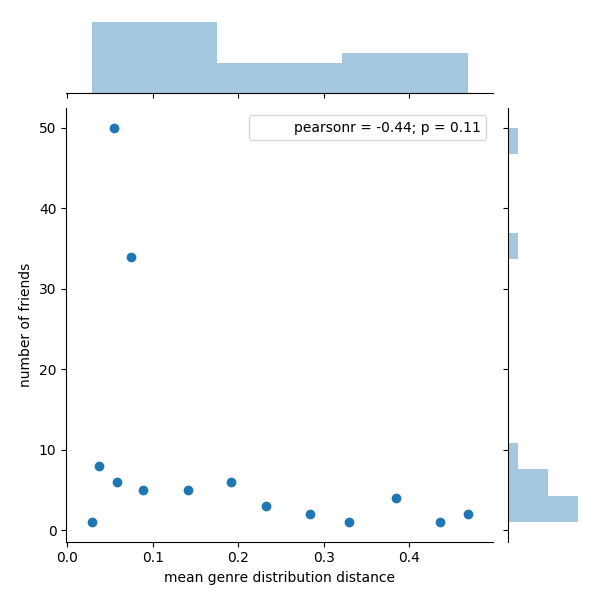
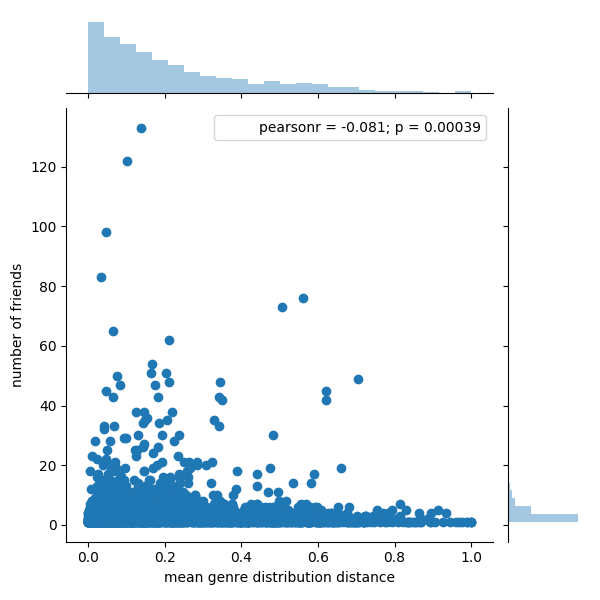
added last slides and changed some headlines

diff --git a/presentations/presentation2/index.html b/presentations/presentation2/index.html
@@ -126,7 +126,7 @@
 
         <section>
             <section>
-                <h2>Selected features</h2>
+                <h2>Tested features</h2>
             </section>
             <section>
                 <h2>Feature 1</h2>
@@ -248,7 +248,71 @@
             </section>
             <section>
                 <!-- ---include table here ----------- -->
-
+            <style type="text/css">
+            .tg  {border-collapse:collapse;border-spacing:0;border-color:#ccc;}
+            .tg td{padding:10px 5px;border-style:solid;border-width:1px;overflow:hidden;word-break:normal;border-color:#ccc;color:#333;background-color:#fff;}
+            .tg th{font-weight:normal;padding:10px 5px;border-style:solid;border-width:1px;overflow:hidden;word-break:normal;border-color:#ccc;color:#333;background-color:#f0f0f0;}
+            .tg .tg-le8v{background-color:#c0c0c0;vertical-align:top}
+            .tg .tg-6afm{background-color:#c0c0c0;vertical-align:top}
+            .tg .tg-b7b8{background-color:#f9f9f9;vertical-align:top}
+            .tg .tg-yw4l{vertical-align:top}
+            </style>
+            <table class="tg">
+            <tr>
+                <th class="tg-le8v"></th>
+                <th class="tg-le8v">mean genre distribution distance</th>
+                <th class="tg-le8v">Nr. friends</th>
+                <th class="tg-le8v">Nr. genres</th>
+            </tr>
+            <tr>
+                <td class="tg-6afm">count</td>
+                <td class="tg-b7b8">1907.000000</td>
+                <td class="tg-b7b8">1907.000000</td>
+                <td class="tg-b7b8">1907.000000</td>
+            </tr>
+            <tr>
+                <td class="tg-le8v">mean</td>
+                <td class="tg-yw4l">0.229450</td>
+                <td class="tg-yw4l">4.869953</td>
+                <td class="tg-yw4l">10.119560</td>
+            </tr>
+            <tr>
+                <td class="tg-6afm">std</td>
+                <td class="tg-b7b8">0.210196</td>
+                <td class="tg-b7b8">8.465650</td>
+                <td class="tg-b7b8">4.967087</td>
+            </tr>
+            <tr>
+                <td class="tg-le8v">min</td>
+                <td class="tg-yw4l">0.000000</td>
+                <td class="tg-yw4l">1.000000</td>
+                <td class="tg-yw4l">1.000000</td>
+            </tr>
+            <tr>
+                <td class="tg-6afm">25%</td>
+                <td class="tg-b7b8">0.067679</td>
+                <td class="tg-b7b8">1.000000</td>
+                <td class="tg-b7b8">6.000000</td>
+            </tr>
+            <tr>
+                <td class="tg-le8v">50%</td>
+                <td class="tg-yw4l">0.162160</td>
+                <td class="tg-yw4l">3.000000</td>
+                <td class="tg-yw4l">11.000000</td>
+            </tr>
+            <tr>
+                <td class="tg-6afm">75%</td>
+                <td class="tg-b7b8">0.336354</td>
+                <td class="tg-b7b8">5.000000</td>
+                <td class="tg-b7b8">14.000000</td>
+            </tr>
+            <tr>
+                <td class="tg-le8v">max</td>
+                <td class="tg-yw4l">1.000000</td>
+                <td class="tg-yw4l">133.000000</td>
+                <td class="tg-yw4l">23.000000</td>
+            </tr>
+            </table>
             </section>
             <section>
                 <img src="img/analyse_img/genredist_1.png">
@@ -350,6 +414,12 @@
             </section>
             <section>
                 <img src="img/analyse_img/friendsconn_3.png">
+            </section>
+            <section>
+                <img src="img/analyse_img/friendsconn_4.png">
+            </section>
+            <section>
+                <h3>Quality of Features?!</h3>
             </section>
             <!-- ... -->
         </section>
